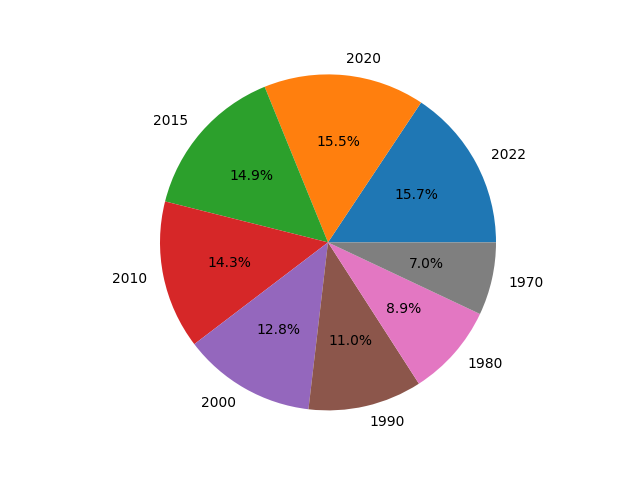
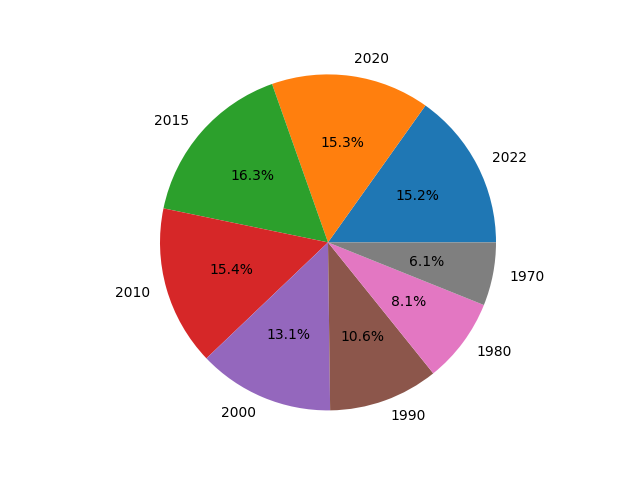
Actualuzacion al Web-server

diff --git a/web-server/main.py b/web-server/main.py
@@ -1,12 +1,27 @@
-from fastapi import FastAPI 
+from fastapi import FastAPI
+from fastapi.responses import HTMLResponse
 import store
 
 app = FastAPI()
+
+@app.get("/", response_class=HTMLResponse)
+def get_root():
+    return """
+        <h1>Esta es la pagina de inicio</h1>
+        <p>Para ver los contactos, vaya a <a href="/contact">/contact</a></p>
+        <p>Para ver las categorias, vaya a <a href="/categories">/categories</a></p>
+    """
+    
+@app.get("/contact")
+def get_contacts():
+    return store.get_contacts()
 
 @app.get("/categories")
 def categories():
     return store.get_categories()
 
+def run():
+    store.get_categories()
 
 if __name__ == '__main__':
-    pass
+    run()

diff --git a/app/charts.py b/app/charts.py
@@ -4,7 +4,9 @@ import matplotlib.pyplot as plt
 def generate_bar_chart(labels, values):
     fig, ax = plt.subplots()
     ax.bar(labels, values)
-    plt.show()
+    plt.savefig("bar_chart.png")  # Save the bar chart as an image file
+    plt.close()  # Close the figure to free up memory
+    #plt.show()
 
 
 def generate_pie_chart(labels, values):
@@ -20,4 +22,4 @@ if __name__ == "__main__":
     labels = ["A", "B", "C", "D", "E"]
     values = [30, 500, 100, 200, 90]
     generate_bar_chart(labels, values)
-    # generate_pie_chart(labels, values)
+    generate_pie_chart(labels, values)

diff --git a/web-server/store.py b/web-server/store.py
@@ -4,3 +4,6 @@ def get_categories():
     r = requests.get('https://api.escuelajs.co/api/v1/categories')
     r.raise_for_status()  # Raise an exception if the request was unsuccessful
     return r.json()
+
+def get_contacts():
+    return {"name": "Alirio Gallegos", "email": "alirio.gallegos@gmail.com"}

diff --git a/charts/charts.py b/charts/charts.py
@@ -6,5 +6,5 @@ def generate_pie_chart():
 
     fig, ax = plt.subplots()
     ax.pie(values, labels = labels)
-    plt.savefig('.pie.png')
+    plt.savefig('pie.png')
     plt.close()
